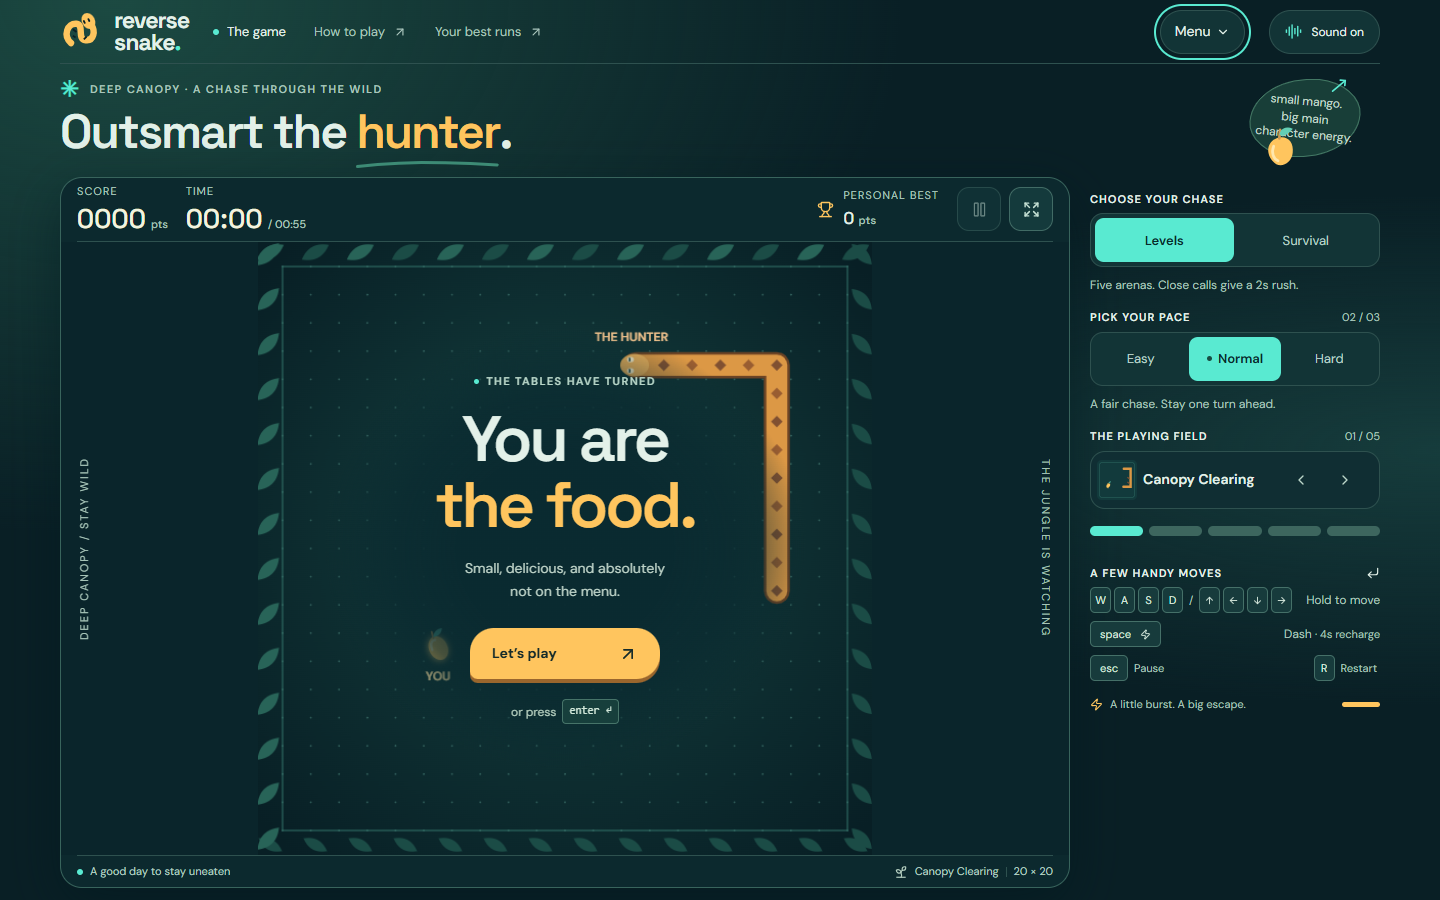
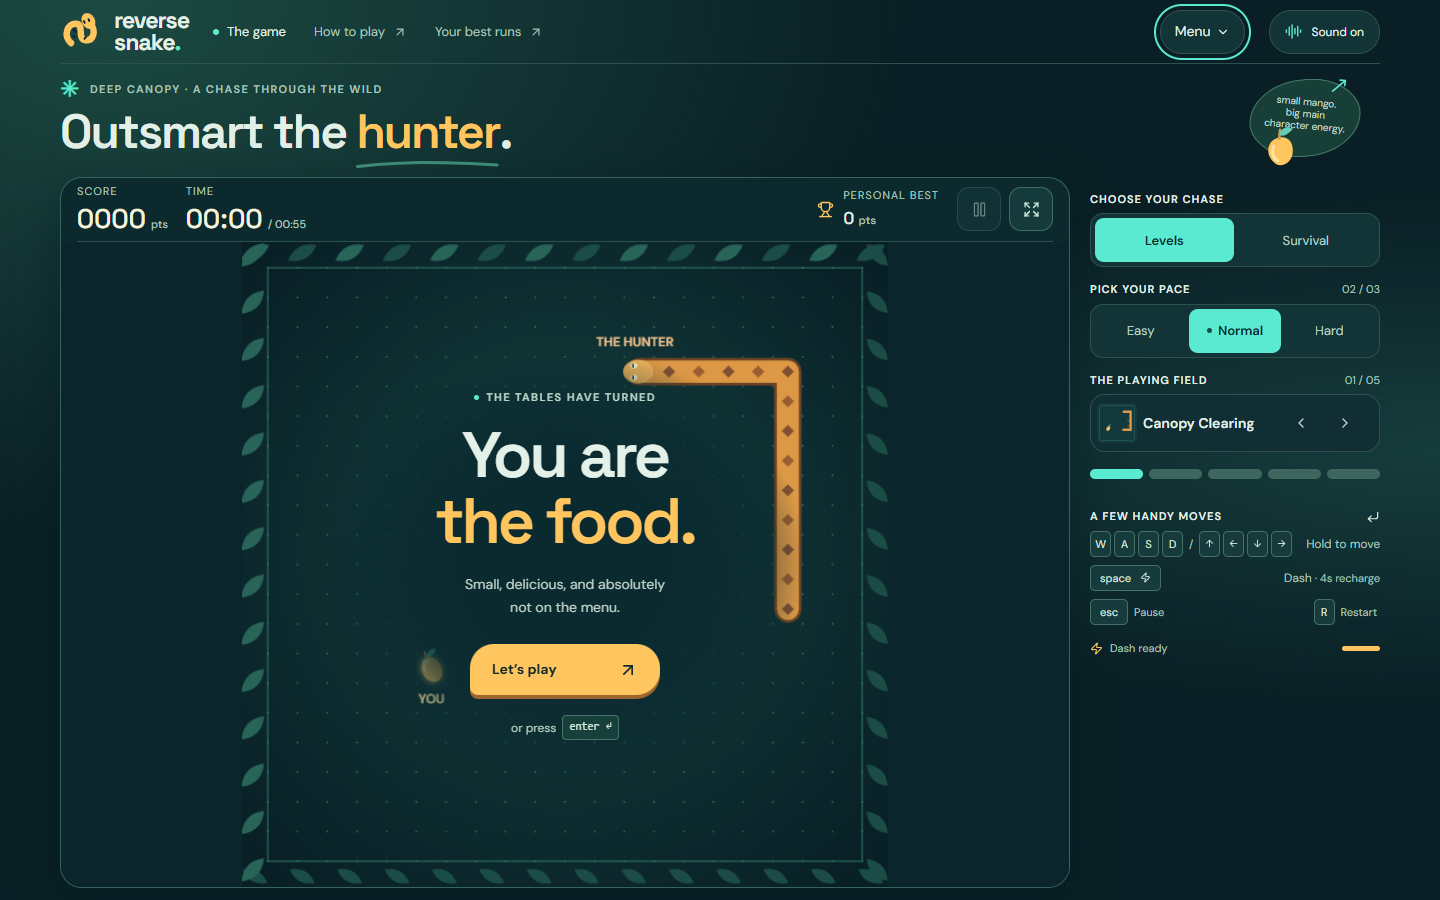
Simplify Mango board text and fit the sticker caption

diff --git a/web/src/app/globals.css b/web/src/app/globals.css
@@ -43,7 +43,7 @@ button:not(:disabled):active { transform: translateY(1px); }
 .hero h1 > span > svg { position: absolute; width: 100%; height: 10px; left: 0; bottom: -8px; color: #3d8b75; }
 .hero p { margin: 20px 0 0; color: var(--muted); font-size: 15px; line-height: 1.7; }
 .hero-sticker { position: relative; display: flex; align-items: center; justify-content: center; width: 150px; height: 115px; margin-right: 20px; transform: rotate(5deg); border: 1px solid #437864; border-radius: 60% 40% 60% 40%; color: #c2dbcd; background: #183e38; flex-shrink: 0; }
-.hero-sticker > span { text-align: center; font-size: 12px; line-height: 1.4; }
+.hero-sticker > span { max-width: 82px; text-align: center; font-size: 10px; line-height: 1.2; transform: translateY(-4px); }
 .hero-sticker > svg:first-child { position: absolute; top: -6px; right: 13px; color: var(--rush); }
 .hero-sticker > svg:last-child { width: 43px; height: 43px; position: absolute; bottom: -15px; left: 10px; transform: rotate(-18deg); }
 .play-layout { display: grid; grid-template-columns: minmax(0, 1fr) 318px; gap: 28px; align-items: start; }
@@ -61,9 +61,6 @@ button:not(:disabled):active { transform: translateY(1px); }
 .dark-icon-button:hover:not(:disabled), .sound-button:hover { background: #26544f; }
 .board-stage { height: 550px; position: relative; display: flex; align-items: center; justify-content: center; overflow: hidden; background: #0a252b; }
 .game-canvas { display: block; height: 100%; max-width: 100%; width: auto; aspect-ratio: 1; touch-action: none; outline-offset: -20px; }
-.board-side-label { position: absolute; font-size: 11px; letter-spacing: 2px; color: #a6c4b7; writing-mode: vertical-rl; }
-.left-label { left: 15px; transform: rotate(180deg); }
-.right-label { right: 15px; }
 .board-overlay { position: absolute; inset: 0; display: flex; align-items: center; justify-content: center; flex-direction: column; text-align: center; color: var(--forest); padding: 24px; }
 .ready-overlay { background: radial-gradient(ellipse 240px 220px at 50% 50%, #0a2a30fa 45%, #0a2a30c0 70%, transparent 100%); }
 .overlay-tag { display: flex; align-items: center; justify-content: center; gap: 7px; font-size: 11px; font-weight: 600; letter-spacing: 1.4px; color: #b8d6c8; }
@@ -77,9 +74,6 @@ button:not(:disabled):active { transform: translateY(1px); }
 .enter-hint kbd { border: 1px solid #477469; background: #173f3c; color: #d2e8da; font-size: 11px; padding: 3px 6px; border-radius: 4px; }
 .game-footer { min-height: 46px; margin: 0 24px; display: flex; align-items: center; justify-content: space-between; gap: 12px; border-top: 1px solid var(--line); font-size: 11px; color: #b6d0c1; }
 .game-footer > span { display: flex; align-items: center; gap: 7px; }
-.status-dot, .live-dot { width: 6px; height: 6px; border-radius: 50%; background: var(--rush); flex-shrink: 0; }
-.status-dot.running { box-shadow: 0 0 8px #59ead160; }
-.footer-divider { width: 1px; height: 10px; background: var(--line); }
 .game-sidebar { min-width: 0; }
 .mission-card { position: relative; padding: 23px; border: 1px solid #42685a; border-radius: 22px 22px 8px 22px; background: linear-gradient(120deg, #24483e, #153837); }
 .mission-card .eyebrow { color: #b8d2bd; display: flex; align-items: center; gap: 7px; }
@@ -100,7 +94,6 @@ button:not(:disabled):active { transform: translateY(1px); }
 .difficulty-options button[aria-pressed="true"]:disabled { opacity: 1; }
 .difficulty-options button:hover:not(:disabled):not([aria-pressed="true"]) { background: #26534d; }
 .difficulty-options button > span { height: 5px; width: 5px; border-radius: 50%; background: #174e43; }
-.difficulty-caption { margin: 9px 0 0; font-size: 12px; line-height: 1.6; color: var(--muted); }
 .arena-card { display: flex; align-items: center; padding: 10px; border: 1px solid var(--line); border-radius: 15px; gap: 10px; background: #102e33; }
 .garden-map { width: 64px; height: 64px; flex-shrink: 0; }
 .arena-card > div:nth-child(2) { flex: 1; min-width: 0; }
@@ -146,7 +139,6 @@ button:not(:disabled):active { transform: translateY(1px); }
 .result-stats { display: flex; gap: 45px; margin: 0 0 20px; }
 .result-stats strong { display: block; font-family: var(--font-display); font-size: 28px; color: var(--lime); font-weight: 500; }
 .result-stats span { display: block; font-size: 11px; color: var(--muted); margin-top: 2px; }
-.live-status { position: absolute; top: 12px; left: 16px; display: flex; gap: 7px; align-items: center; font-size: 11px; letter-spacing: .8px; color: #bed8c9; padding: 7px 9px; background: #0a292fed; border-radius: 8px; pointer-events: none; }
 .boost-status { position: absolute; bottom: 16px; left: 50%; transform: translateX(-50%); display: flex; align-items: center; gap: 10px; background: #103c3b; border: 1px solid #59ead1; padding: 10px 14px; border-radius: 16px; color: #96ffe8; min-width: 230px; pointer-events: none; }
 .boost-status strong { display: block; font-size: 12px; letter-spacing: 1px; }
 .boost-status span { display: block; color: #d0f4e7; font-size: 12px; font-variant-numeric: tabular-nums; }
@@ -216,7 +208,6 @@ button:not(:disabled):active { transform: translateY(1px); }
   .play-layout { grid-template-columns: minmax(0, 1fr) 290px; gap: 24px; }
   .hud-best { display: none; }
   .hud-actions { margin-left: auto; }
-  .board-side-label { display: none; }
   .board-stage { height: auto; aspect-ratio: 1; }
   .game-canvas { width: 100%; height: auto; }
   .survival-target { display: none; }
@@ -262,7 +253,6 @@ button:not(:disabled):active { transform: translateY(1px); }
   .overlay-tag { font-size: 11px; letter-spacing: .8px; }
   .enter-hint { display: none; }
   .game-footer { margin-inline: 14px; flex-wrap: wrap; justify-content: center; gap: 6px; padding: 10px 0; }
-  .footer-divider, .grid-size { display: none; }
   .game-sidebar { grid-template-columns: 1fr; gap: 24px; }
   .mission-card, .controls-section { grid-column: auto; }
   .below-game { margin-top: 28px; gap: 18px; }
@@ -374,7 +364,6 @@ body { height: 100dvh; display: flex; flex-direction: column; padding: env(safe-
   .result-stats { margin-bottom: 6px; }
   .result-stats strong { font-size: 18px; }
   .overlay-links { margin-top: 4px; }
-  .board-side-label { display: none; }
   .boost-status { bottom: 4px; padding: 4px 10px; min-width: 190px; }
 }
 @media (max-height: 960px) {
@@ -394,7 +383,7 @@ body { height: 100dvh; display: flex; flex-direction: column; padding: env(safe-
   .play-layout { display: flex; flex-direction: column; gap: 8px; }
   .game-sidebar { order: -1; display: grid; grid-template-columns: 1fr 1fr; gap: 6px 8px; flex-shrink: 0; }
   .game-sidebar > section { margin: 0; }
-  .mission-card, .controls-section, .difficulty-caption { display: none; }
+  .mission-card, .controls-section { display: none; }
   .section-label h3 { font-size: 11px; letter-spacing: 0; }
   .section-label > span { display: none; }
   .difficulty-options { padding: 2px; gap: 0; }
@@ -413,7 +402,6 @@ body { height: 100dvh; display: flex; flex-direction: column; padding: env(safe-
   .game-footer { flex-basis: 26px; min-height: 26px; font-size: 10px; justify-content: center; }
   .game-footer > span:last-child { display: none; }
   .touch-controls { display: flex; }
-  .board-side-label { display: none; }
   .extra-setup { display: flex; flex-direction: row; gap: 8px; }
   .extra-setup label { flex: 1; }
   .extra-description { display: none; }
@@ -425,7 +413,7 @@ body { height: 100dvh; display: flex; flex-direction: column; padding: env(safe-
   .site-header, .site-main { width: calc(100% - 16px); }
   .site-header { min-height: 48px; flex-basis: 48px; gap: 8px; }
   .site-main { padding-top: 6px; padding-bottom: 6px; }
-  .hero, .desktop-nav, .mission-card, .controls-section, .difficulty-caption { display: none; }
+  .hero, .desktop-nav, .mission-card, .controls-section { display: none; }
   .play-layout { display: grid; grid-template-columns: minmax(0, 1fr) 250px; gap: 10px; }
   .game-sidebar { display: block; }
   .game-sidebar > section { margin: 0 0 8px; }
@@ -448,7 +436,6 @@ body { height: 100dvh; display: flex; flex-direction: column; padding: env(safe-
 :root:not([data-theme="dark"]) .dark-icon-button:hover:not(:disabled), :root:not([data-theme="dark"]) .sound-button:hover { background: #cedfce; }
 :root:not([data-theme="dark"]) .sound-button { background: var(--panel); }
 :root:not([data-theme="dark"]) .board-stage { background: #d5e5d8; }
-:root:not([data-theme="dark"]) .board-side-label { color: #48695b; }
 :root:not([data-theme="dark"]) .ready-overlay { background: radial-gradient(ellipse 240px 220px at 50% 50%, #edf4e5fa 45%, #edf4e5c0 70%, transparent 100%); }
 :root:not([data-theme="dark"]) .overlay-tag, :root:not([data-theme="dark"]) .board-overlay p, :root:not([data-theme="dark"]) .enter-hint, :root:not([data-theme="dark"]) .game-footer { color: var(--muted); }
 :root:not([data-theme="dark"]) .enter-hint kbd, :root:not([data-theme="dark"]) .control-row kbd { background: #e1ebdd; border-color: #9dbbab; color: var(--forest); }
@@ -471,12 +458,10 @@ body { height: 100dvh; display: flex; flex-direction: column; padding: env(safe-
 :root:not([data-theme="dark"]) .state-overlay { background: #edf4e5ed; }
 :root:not([data-theme="dark"]) .overlay-icon { background: #d6e5cf; }
 :root:not([data-theme="dark"]) .overlay-links button, :root:not([data-theme="dark"]) .text-button { color: var(--muted); }
-:root:not([data-theme="dark"]) .live-status { background: #edf4e5ed; color: #315949; }
 :root:not([data-theme="dark"]) .boost-status { background: #e0f0dd; border-color: var(--rush); color: #006757; }
 :root:not([data-theme="dark"]) .boost-status span { color: #315949; }
 :root:not([data-theme="dark"]) .boost-track { background: #b4cfb7; }
 :root:not([data-theme="dark"]) .board-boosted { box-shadow: inset 0 0 0 2px #00756570; }
-:root:not([data-theme="dark"]) .status-dot.running { box-shadow: 0 0 8px #00756560; }
 :root:not([data-theme="dark"]) .fullscreen-notice, :root:not([data-theme="dark"]) .storage-notice { color: #764300; }
 :root:not([data-theme="dark"]) .touch-controls { background: #e7eee0; }
 :root:not([data-theme="dark"]) .d-pad > button { background: #d6e5cf; border-color: #89ac95; color: var(--forest); }

diff --git a/web/src/components/reverse-snake.tsx b/web/src/components/reverse-snake.tsx
@@ -135,9 +135,7 @@ export default function ReverseSnake() {
           </div>
 
           <div className={`board-stage ${game.phase === "lost" ? "board-lost" : ""} ${game.boostRemaining > 0 ? "board-boosted" : ""}`} data-phase={game.phase}>
-            <span className="board-side-label left-label">DEEP CANOPY / STAY WILD</span>
             <GameCanvas gameRef={gameRef} canvasRef={canvasRef} ghostRef={ghostRef} />
-            <span className="board-side-label right-label">THE JUNGLE IS WATCHING</span>
             {game.phase === "ready" && <div className="board-overlay ready-overlay">
               <div className="overlay-tag"><span /> THE TABLES HAVE TURNED</div>
               <h2>You are<br/><span>the food.</span></h2>
@@ -153,20 +151,18 @@ export default function ReverseSnake() {
               <button className="text-button" onClick={game.phase === "won" ? startRound : quit}>{game.phase === "won" ? "Play this arena again" : "Back to the jungle"}</button>
             </div>}
             {game.phase === "running" && game.boostRemaining > 0 && <div className="boost-status"><Zap size={16}/><div><strong>{game.closeCallFlash > 0 ? "CLOSE CALL!" : "CANOPY RUSH"}</strong><span>2× speed · {(game.boostRemaining / 1000).toFixed(1)}s</span></div><div className="boost-track"><i style={{ width: `${game.boostRemaining / CLOSE_CALL_DURATION[game.mode] * 100}%` }}/></div></div>}
-            {game.phase === "running" && <div className="live-status"><span className="live-dot"/>{game.committedMoves > 0 ? "HUNTER LUNGING" : "HUNTER TRACKING"}</div>}
           </div>
 
-          <div className="game-footer"><span><i className={game.phase === "running" ? "status-dot running" : "status-dot"} />{game.phase === "running" ? "The chase is on" : game.phase === "paused" ? "Chase on hold" : game.phase === "won" ? "Against all odds. Uneaten." : game.phase === "lost" ? "A fresh start awaits" : "A good day to stay uneaten"}</span><span><Sprout size={14}/>{arena.name}<span className="footer-divider"/><span className="grid-size">20 × 20</span></span></div>
           {fullscreenNotice && <p className="fullscreen-notice" role="status">{fullscreenNotice}</p>}
           <div className="touch-controls" aria-label="Touch game controls"><div className="d-pad">{([['up', ArrowUp], ['left', ArrowLeft], ['down', ArrowDown], ['right', ArrowRight]] as const).map(([direction, Icon]) => <button key={direction} className={`direction-${direction}`} disabled={game.phase !== "running"} aria-label={`Move ${direction}`} onPointerDown={event => { event.preventDefault(); event.currentTarget.setPointerCapture(event.pointerId); pressInput(`pointer:${event.pointerId}`, direction); focusGame(); }} onPointerUp={event => releaseInput(`pointer:${event.pointerId}`)} onPointerCancel={event => releaseInput(`pointer:${event.pointerId}`, true)} onLostPointerCapture={event => releaseInput(`pointer:${event.pointerId}`, true)} onClick={event => { if (event.detail === 0) { steer(direction); directionRef.current = input.current.direction; focusGame(); } }}><Icon size={20}/></button>)}</div><button className="touch-dash" disabled={game.phase !== "running" || game.dashCooldown > 0} onClick={() => { dash(); focusGame(); }}><Zap size={20}/>{game.dashCooldown > 0 ? `${(game.dashCooldown / 1000).toFixed(1)}s` : "Dash"}</button></div>
         </section>
 
         <aside className="game-sidebar" aria-label="Game setup and controls">
           <section className="mission-card"><div className="eyebrow"><span className="mini-cross">+</span> YOUR ONE JOB</div><h2>Be the one<br/>that got away.</h2><p>{game.mode === "survival" ? "Stay alive as long as you can. Every crash brings a fresh hunter. There’s always another chase." : "Bait the snake into a wall or its own tail. Outsmart it, or outlast its appetite."}</p><div className="mission-rule"><span className="apple-dot"/>You’re the mango.<span className="snake-dot"/>It’s the problem.</div><ArrowDownLeft className="mission-arrow" size={36} strokeWidth={1.2}/></section>
-          <section className="mode-section"><div className="section-label"><h3>CHOOSE YOUR CHASE</h3></div><div className="difficulty-options" aria-label="Game mode"><button disabled={active} aria-pressed={game.mode === "levels"} onClick={() => configure(game.arena, game.difficulty, "levels")}>Levels</button><button disabled={active} aria-pressed={game.mode === "survival"} onClick={() => configure(game.arena, game.difficulty, "survival")}>Survival</button></div><p className="difficulty-caption">{game.mode === "survival" ? "Endless pursuit. Close calls give a 5s rush." : "Five arenas. Close calls give a 2s rush."}</p></section>
-          <section className="difficulty-section"><div className="section-label"><h3>PICK YOUR PACE</h3><span>0{(['easy', 'normal', 'hard'] as Difficulty[]).indexOf(game.difficulty) + 1} / 03</span></div><div className="difficulty-options" aria-label="Difficulty">{(Object.keys(DIFFICULTIES) as Difficulty[]).map(value => <button key={value} disabled={active} aria-pressed={game.difficulty === value} onClick={() => configure(game.arena, value)}>{game.difficulty === value && <span/>}{DIFFICULTIES[value].label}</button>)}</div><p className="difficulty-caption">{active ? "Your pace is set for this round." : DIFFICULTIES[game.difficulty].description}</p></section>
+          <section className="mode-section"><div className="section-label"><h3>CHOOSE YOUR CHASE</h3></div><div className="difficulty-options" aria-label="Game mode"><button disabled={active} aria-pressed={game.mode === "levels"} onClick={() => configure(game.arena, game.difficulty, "levels")}>Levels</button><button disabled={active} aria-pressed={game.mode === "survival"} onClick={() => configure(game.arena, game.difficulty, "survival")}>Survival</button></div></section>
+          <section className="difficulty-section"><div className="section-label"><h3>PICK YOUR PACE</h3><span>0{(['easy', 'normal', 'hard'] as Difficulty[]).indexOf(game.difficulty) + 1} / 03</span></div><div className="difficulty-options" aria-label="Difficulty">{(Object.keys(DIFFICULTIES) as Difficulty[]).map(value => <button key={value} disabled={active} aria-pressed={game.difficulty === value} onClick={() => configure(game.arena, value)}>{game.difficulty === value && <span/>}{DIFFICULTIES[value].label}</button>)}</div></section>
           <section className="arena-section"><div className="section-label"><h3>THE PLAYING FIELD</h3><span>0{game.arena + 1} / 05</span></div><div className="arena-card"><GardenMap arena={game.arena}/><div><span>ARENA 0{game.arena + 1}</span><h4>{arena.name}</h4><p>{arena.subtitle}</p></div><div className="arena-arrows"><button aria-label="Previous arena" disabled={active} onClick={() => configure((game.arena + 4) % ARENAS.length, game.difficulty)}><ChevronLeft size={16}/></button><button aria-label="Next arena" disabled={active} onClick={() => configure((game.arena + 1) % ARENAS.length, game.difficulty)}><ChevronRight size={16}/></button></div></div><div className="arena-dots" aria-label="Choose arena">{ARENAS.map((item, index) => <button key={item.name} className={index === game.arena ? "selected" : ""} aria-label={`Choose ${item.name}`} aria-pressed={index === game.arena} disabled={active} onClick={() => configure(index, game.difficulty)}/>)}</div></section>
-          <section className="controls-section"><div className="section-label"><h3>A FEW HANDY MOVES</h3><CornerDownLeft size={14}/></div><div className="control-row"><div className="key-group"><kbd>W</kbd><kbd>A</kbd><kbd>S</kbd><kbd>D</kbd><span>/</span><kbd><ArrowUp size={11}/></kbd><kbd><ArrowLeft size={11}/></kbd><kbd><ArrowDown size={11}/></kbd><kbd><ArrowRight size={11}/></kbd></div><span>Hold to move</span></div><div className="control-row"><kbd className="wide-key">space <Zap size={11}/></kbd><span>Dash <small>· 4s recharge</small></span></div><div className="control-row"><div className="key-group"><kbd className="wide-key">esc</kbd><span>Pause</span></div><div className="key-group"><kbd>R</kbd><span>Restart</span></div></div><div className={`dash-meter ${game.dashCooldown === 0 ? "charged" : ""}`}><Zap size={13}/><span>{game.dashCooldown === 0 ? "A little burst. A big escape." : "Catching your breath…"}</span><div><i style={{ width: `${100 - (game.dashCooldown / DASH_COOLDOWN) * 100}%` }}/></div></div></section>
+          <section className="controls-section"><div className="section-label"><h3>A FEW HANDY MOVES</h3><CornerDownLeft size={14}/></div><div className="control-row"><div className="key-group"><kbd>W</kbd><kbd>A</kbd><kbd>S</kbd><kbd>D</kbd><span>/</span><kbd><ArrowUp size={11}/></kbd><kbd><ArrowLeft size={11}/></kbd><kbd><ArrowDown size={11}/></kbd><kbd><ArrowRight size={11}/></kbd></div><span>Hold to move</span></div><div className="control-row"><kbd className="wide-key">space <Zap size={11}/></kbd><span>Dash <small>· 4s recharge</small></span></div><div className="control-row"><div className="key-group"><kbd className="wide-key">esc</kbd><span>Pause</span></div><div className="key-group"><kbd>R</kbd><span>Restart</span></div></div><div className={`dash-meter ${game.dashCooldown === 0 ? "charged" : ""}`}><Zap size={13}/><span>{game.dashCooldown === 0 ? "Dash ready" : "Recharging"}</span><div><i style={{ width: `${100 - (game.dashCooldown / DASH_COOLDOWN) * 100}%` }}/></div></div></section>
         </aside>
       </div>
 

diff --git a/web/browser-tests/game.spec.ts b/web/browser-tests/game.spec.ts
@@ -208,7 +208,7 @@ test("jungle layout, text contrast and control sizes at desktop and mobile width
       const channels = rgb.match(/[\d.]+/g)!.slice(0, 3).map(n => Number(n) / 255).map(n => n <= .04045 ? n / 12.92 : ((n + .055) / 1.055) ** 2.4);
       return channels[0] * .2126 + channels[1] * .7152 + channels[2] * .0722;
     };
-    return [".hero p", ".difficulty-caption", ".hud-stat > span"].map(selector => {
+    return [".hero p", ".control-row > span", ".hud-stat > span"].map(selector => {
       const el = document.querySelector(selector)!; const fg = luminance(getComputedStyle(el).color);
       const bg = luminance(selector.startsWith(".hud") ? "rgb(12, 41, 46)" : "rgb(28, 74, 66)");
       return (Math.max(fg, bg) + .05) / (Math.min(fg, bg) + .05);

diff --git a/web/docs/CURRENT_STATE.md b/web/docs/CURRENT_STATE.md
@@ -8,6 +8,8 @@ Version 1.1.0 adds /hunter (player snake), /challenge (three fixed local surviva
 
 The current presentation defaults to a light canopy palette; the original dark palette is selectable through Menu → Theme. Page surfaces, dialogs, SVG maps and Canvas follow the selection across all four routes. The separate reverse-snake:theme:v1 preference survives reloads and synchronizes between tabs, with light as the fallback for invalid/blocked storage. Menu toggles on click/tap or keyboard activation, provides hover/focus feedback, and supports Escape/outside/close actions. Hovering over Menu leaves gameplay running. Mango's menu offers Hunter and Hunter's menu offers Mango, omitting their own mode link. Opening Menu pauses gameplay or replay, while changing theme preserves the paused characters, time, scores and replay cursor. Both palettes and the open menu fit the tested desktop, phone and short-landscape screens. See [visual direction](VISUAL_DIRECTION.md).
 
+Mango's playing field keeps the score/time HUD and removes the tracking badge, vertical side slogans and bottom status/arena footer. Mode and difficulty choices have no explanatory captions underneath them. The dash meter uses concise readiness text, and the decorative mango sticker uses smaller text that fits its oval. Arena selection, controls, pause/results and boost feedback remain available.
+
 The maintained stack is Next.js 16.4.5, React 19.3.1, TypeScript, Node 24 and Canvas. Phaser, online accounts, cloud scores, custom arena editor, Android package and ML are not implemented. Their conditional deferral is explained in [technical decisions](TECHNICAL_DECISIONS.md).
 
 Current local verification: ESLint, production build and TypeScript pass. The browser suite has 44 passes and one explicit headless tab-visibility skip. It covers click/keyboard/touch menu activation, hovering during a live round, switching between Mango and Hunter without listing the current mode, both palettes and their storage/menu behavior, all-route viewport fit, new modes, replay/ghost, native fullscreen, dialog focus, navigation, offline loaded gameplay and the twelve main-game viewport sizes. The rules and dependency lockfile are unchanged from the prior 44 passing rules tests, clean install and zero-findings audit. The startup first-frame reset and dialog focus-return regressions are covered. [Performance evidence](PERFORMANCE.md) contains measurements of the preceding browser release.

diff --git a/web/docs/VERIFICATION.md b/web/docs/VERIFICATION.md
@@ -1,5 +1,9 @@
 # Verification
 
+## Mango presentation cleanup — 14 November 2026
+
+ESLint, production build and TypeScript pass. The full Chrome browser suite passes **44 tests** with the existing headless tab-visibility skip. The desktop/phone/landscape viewport, fullscreen, menu, theme, replay and input checks remain passing after removal of the Mango tracking badge, side labels, board footer and setup captions. Contrast coverage now samples the remaining control text. Desktop screenshots in both themes, the phone layout and active close-call artwork were visually reviewed; the sticker's reduced text fits inside its oval. Rules and dependencies are unchanged. Hosted verification remains NOT VERIFIED under the existing waiver.
+
 ## Click menu and mode navigation — 14 November 2026
 
 ESLint, production build and TypeScript pass. The full local Chrome browser suite passes **44 tests**, with the existing explicit headless tab-visibility skip. The menu test verifies that hovering leaves a live chase running, click/keyboard activation opens the menu and pauses gameplay, touch toggles it, and Escape/outside/close actions restore the expected focus. Route navigation verifies that Mango offers Hunter and Hunter offers Mango, without their own mode link, including during active rounds. Existing theme, replay, ghost, fullscreen, input and viewport checks pass. Updated menu screenshots show the current options. Rules and dependencies are unchanged.

diff --git a/web/docs/VISUAL_DIRECTION.md b/web/docs/VISUAL_DIRECTION.md
@@ -8,4 +8,6 @@ Hunter reuses the same board artwork and amber snake; the mango is a collectible
 
 The page now allocates available viewport height to the board. Promotional copy is reduced where space is limited; core setup and controls remain reachable. Main controls are at least 44 px. At short board heights, overlays retain titles and primary actions and omit secondary decorative copy. Phone controls use a compact horizontal direction row. Help remains available through the menu or mode guide.
 
+Mango's board has no tracking badge, vertical side slogans or bottom status/arena footer. Mode and difficulty sections show their controls without supporting captions. The dash meter reports readiness concisely. The mango sticker uses 10 px text, a bounded text width and a small upward offset to keep the phrase inside the compact oval.
+
 Reduced motion keeps the aura and boost countdown while suppressing moving trails and bursts. No new raster artwork, external font request or downloaded sound was introduced. See ASSET_MANIFEST.md and ASSET_LICENCES.md for actual sources. The theme-light/theme-dark screenshots show both palettes and their menus at desktop and phone sizes. Screenshots under screenshots/ are evidence of particular builds rather than an exhaustive accessibility certification.
